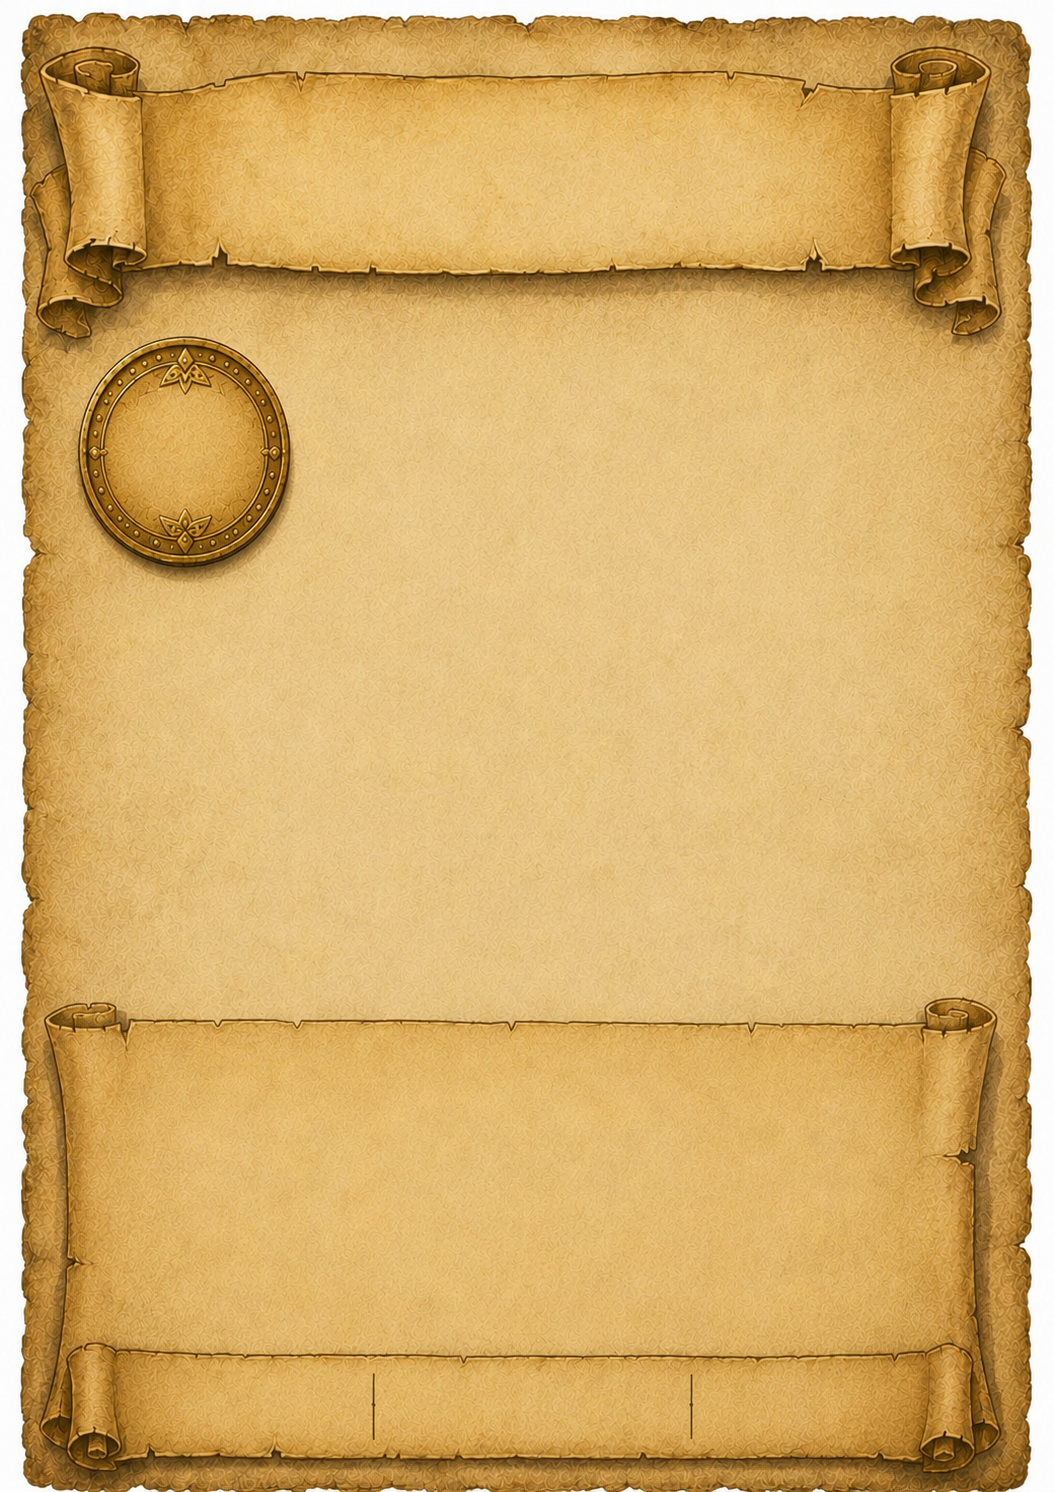
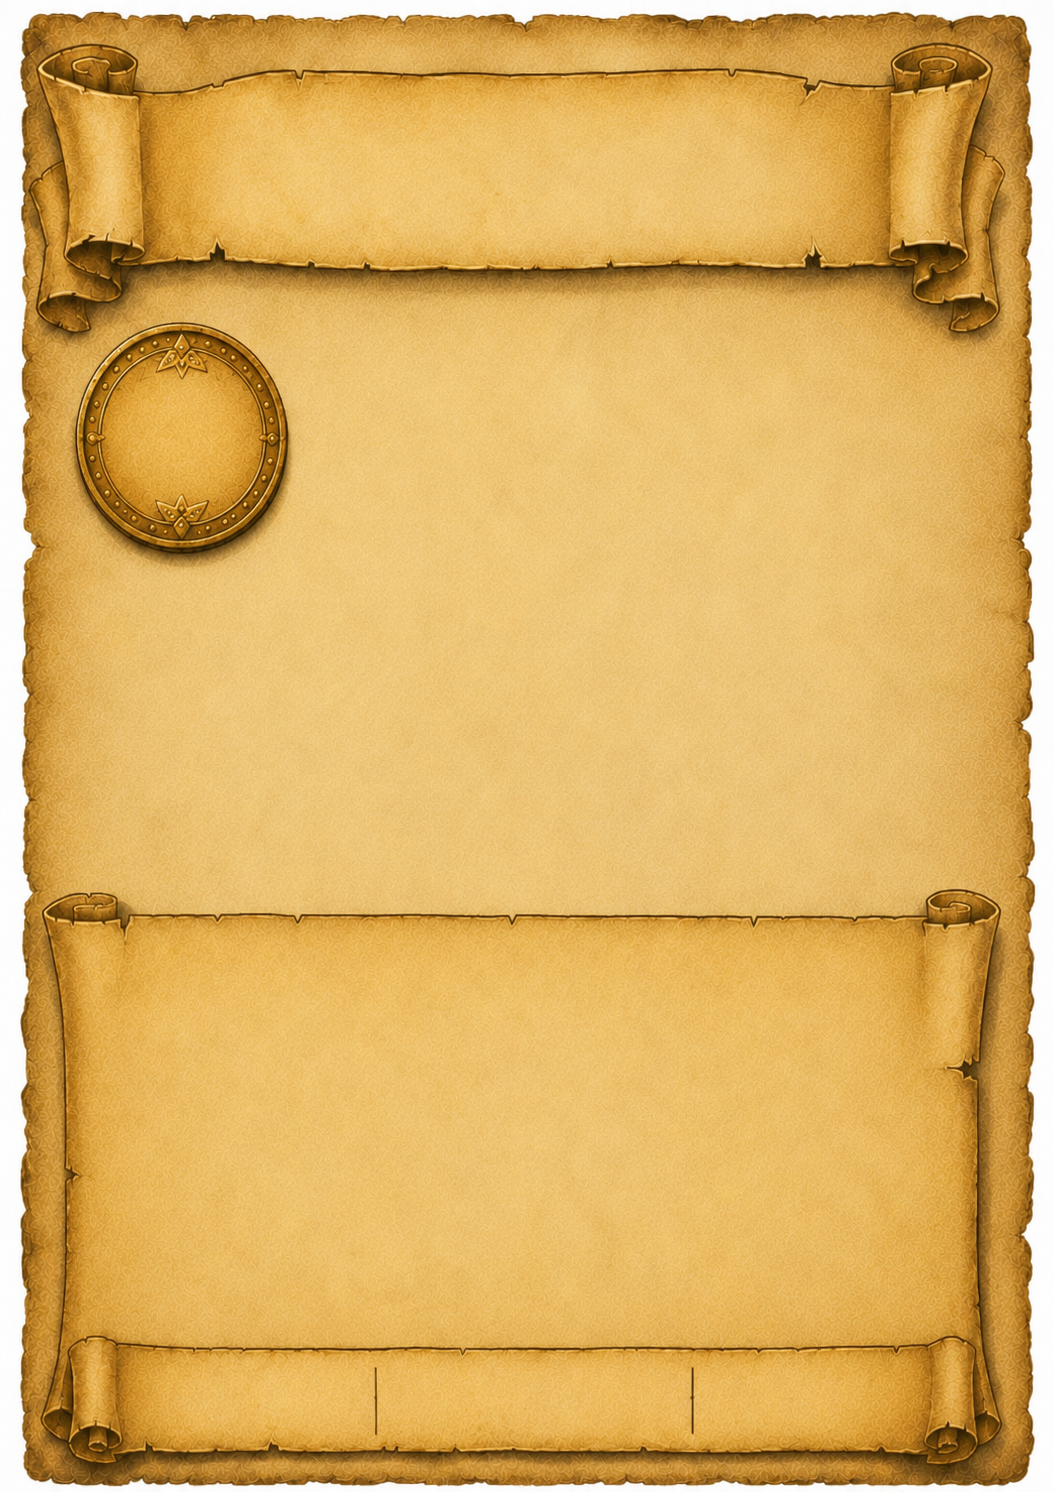
feat(frame): moldura v2 com pergaminho da descrição mais alto
A moldura nova do dono (moeda à esquerda) vira frame-left.png, e
frame-right.png passa a ser o espelho exato dela.

- Pergaminho da descrição: topo em 64,7 mm (era 72,1). A caixa de texto vai
  para 66,6–94,4 mm (era 74–95), com +32% de altura para as poções longas.
- Arte: 21–63,5 mm, ainda centralizada no espaço livre.
- Espelho exato, então todas as caixas espelham puro: sai o ajuste manual
  da moeda (mirrorPriceBoxMm), e o rodapé também espelha. O 3º
  compartimento do rodapé da moeda à direita fica com 16,5 mm (era 12,7).
- Rodapé 0,6 mm acima; divisores medidos de novo (26,4/48,6 mm à esquerda).

Changed region(s): [[0.0, 0.0, 1.0, 1.0], [0.8501, 0.37, 0.8805, 0.4008]]

diff --git a/src/config.ts b/src/config.ts
@@ -32,9 +32,10 @@ export const PATHS = {
 };
 
 // ---------------------------------------------------------------------------
-// Coin side: the frame comes in two mirrored variants (price coin top-right
-// vs top-left). Picking a side selects both the frame image AND mirrors
-// SLOTS.price horizontally — see FRAME_PATHS / getPriceSlot below.
+// Coin side: the frame comes in two variants (price coin top-right vs
+// top-left). frame-left.png is the painted original (v2, 22/11/2026: taller
+// description scroll); frame-right.png is its exact horizontal mirror, so
+// getSlotsForSide() mirrors every box with no manual nudge.
 // ---------------------------------------------------------------------------
 
 export type CoinSide = "left" | "right";
@@ -127,25 +128,29 @@ export const SLOTS = {
 
   /**
    * Item artwork window = the free space between the title scroll, the
-   * description scroll, the left rail and the coin column (right edge 1mm clear
-   * of the coin). object-fit: contain centers the object in that space.
+   * description scroll (its top edge is at 64.7mm), the left rail and the coin
+   * column (right edge 1mm clear of the coin). object-fit: contain centers the
+   * object in that space.
    */
-  art: { xMm: 6.5, yMm: 21, widthMm: 44.5, heightMm: 48 } as BoxMm,
+  art: { xMm: 6.5, yMm: 21, widthMm: 45.5, heightMm: 42.5 } as BoxMm,
 
-  /** Description band (bottom scroll). */
-  description: { xMm: 7, yMm: 74, widthMm: 60, heightMm: 21 } as BoxMm,
- 
+  /**
+   * Description band: the flat part of the tall bottom scroll (frame v2:
+   * scroll top edge 64.7mm, was 72.1mm — +7.4mm of text height).
+   */
+  description: { xMm: 7, yMm: 66.6, widthMm: 60, heightMm: 27.8 } as BoxMm,
+
   /** Price coin: hangs below the title scroll into the open area, not glued to the top edge. */
-  price: { xMm: 52, yMm: 22.5, widthMm: 17, heightMm: 17 } as BoxMm,
+  price: { xMm: 53, yMm: 23.5, widthMm: 17, heightMm: 17 } as BoxMm,
 
   /**
    * Potion spell-circle seal: hangs right below the price coin, centered on
-   * the same vertical axis (price box center = 60.5mm), in the side rail the
-   * art window already leaves free for the coin (art ends at x=51mm, so this
+   * the same vertical axis (price box center = 61.5mm), in the side rail the
+   * art window already leaves free for the coin (art ends at x=52mm, so this
    * never touches the art). The opposite rail is only ~11mm wide including
    * the torn border — a legible seal there would cut into the art window.
    */
-  circleSeal: { xMm: 55, yMm: 40.5, widthMm: 11, heightMm: 11 } as BoxMm,
+  circleSeal: { xMm: 56, yMm: 41.5, widthMm: 11, heightMm: 11 } as BoxMm,
 
   /**
    * Footer scroll below the description band: the flat band between the
@@ -153,7 +158,7 @@ export const SLOTS = {
    * three cells' horizontal spans come from FOOTER_CELLS_MM (per frame side),
    * because the dividers between them are painted in the frame art.
    */
-  footer: { xMm: 10.2, yMm: 94, widthMm: 52.4, heightMm: 9 } as BoxMm,
+  footer: { xMm: 10.8, yMm: 93.4, widthMm: 53.3, heightMm: 9 } as BoxMm,
 } as const;
 
 export interface BoxPx {
@@ -179,26 +184,14 @@ function mirrorBoxMm(box: BoxMm): BoxMm {
 }
 
 /**
- * Price gets the pure mirror plus a small manual nudge (-1mm x, +1mm y),
- * from fine-tuning the left-coin frame against its actual coin artwork —
- * the two frame images aren't pixel-perfect mirrors of each other, so the
- * plain formula was off by a hair. Re-measure with the percentage-grid
- * technique (see git history / scripts/grid-overlay.ts) if frame-left.png
- * ever changes.
- */
-function mirrorPriceBoxMm(box: BoxMm): BoxMm {
-  return { xMm: CARD_WIDTH_MM - box.xMm - box.widthMm - 1, yMm: box.yMm + 1, widthMm: box.widthMm, heightMm: box.heightMm };
-}
-
-/**
- * Resolves ALL of SLOTS for the given coin side. 'right' is the calibrated
- * original. 'left' mirrors every box horizontally — not just price. This
- * matters because SLOTS.art isn't centered (it's shifted toward the side
- * away from the coin, keeping a deliberate ~1mm clearance from it); mirroring
- * only the price and leaving art in place would collide the art box into
- * the coin on the left-coin frame. Mirroring symmetric boxes (title,
- * description) is a no-op. Exceptions: the circle seal follows the coin's
- * nudge, and the footer is not mirrored at all (see FOOTER_CELLS_MM).
+ * Resolves ALL of SLOTS for the given coin side. 'right' is SLOTS as written.
+ * 'left' mirrors every box horizontally — not just price — because
+ * frame-right.png is the exact mirror of frame-left.png. This matters because
+ * SLOTS.art isn't centered (it's shifted toward the side away from the coin,
+ * keeping a deliberate ~1mm clearance from it); mirroring only the price and
+ * leaving art in place would collide the art box into the coin on the
+ * left-coin frame. Mirroring symmetric boxes (title, description) is a no-op.
+ * The footer's painted dividers are mirrored too — see FOOTER_CELLS_MM.
  */
 export function getSlotsForSide(side: CoinSide): typeof SLOTS {
   if (side === "right") return SLOTS;
@@ -206,12 +199,9 @@ export function getSlotsForSide(side: CoinSide): typeof SLOTS {
     title: mirrorBoxMm(SLOTS.title),
     art: mirrorBoxMm(SLOTS.art),
     description: mirrorBoxMm(SLOTS.description),
-    price: mirrorPriceBoxMm(SLOTS.price),
-    // Anchored to the coin, so it takes the coin's mirror nudge too.
-    circleSeal: mirrorPriceBoxMm(SLOTS.circleSeal),
-    // NOT mirrored: both frames draw the footer scroll at the same place
-    // (rolls at ~10–62.5mm on each); only its painted dividers differ — see FOOTER_CELLS_MM.
-    footer: SLOTS.footer,
+    price: mirrorBoxMm(SLOTS.price),
+    circleSeal: mirrorBoxMm(SLOTS.circleSeal),
+    footer: mirrorBoxMm(SLOTS.footer),
   };
 }
 
@@ -220,20 +210,20 @@ export function getSlotsForSide(side: CoinSide): typeof SLOTS {
  * into three compartments; each footer value is centered in its compartment.
  * Measured on the frame PNGs scaled to the 874×1240 canvas (darkest narrow
  * columns across the scroll's mid-band; outer edges = where the end rolls'
- * shadow starts). The frames are not mirror images here — the dividers sit at
- * 28.4/49.9mm on frame-right but 26.2/48.5mm on frame-left — so each side
- * has its own spans. Re-measure if either frame PNG changes.
+ * shadow starts). The dividers are not centered (26.4/48.6mm on frame-left),
+ * so frame-right, its mirror, has them at 25.4/47.6mm and the cells in
+ * reverse order. Re-measure if frame-left.png changes.
  */
 export const FOOTER_CELLS_MM: Record<CoinSide, readonly { xMm: number; widthMm: number }[]> = {
   right: [
-    { xMm: 10.2, widthMm: 18.2 },
-    { xMm: 28.4, widthMm: 21.5 },
-    { xMm: 49.9, widthMm: 12.7 },
+    { xMm: 10.8, widthMm: 14.6 },
+    { xMm: 25.4, widthMm: 22.2 },
+    { xMm: 47.6, widthMm: 16.5 },
   ],
   left: [
-    { xMm: 9.9, widthMm: 16.3 },
-    { xMm: 26.2, widthMm: 22.3 },
-    { xMm: 48.5, widthMm: 14.0 },
+    { xMm: 9.9, widthMm: 16.5 },
+    { xMm: 26.4, widthMm: 22.2 },
+    { xMm: 48.6, widthMm: 14.6 },
   ],
 };
 

diff --git a/CLAUDE.md b/CLAUDE.md
@@ -32,13 +32,13 @@ pnpm art -- sono --variacoes=3          # 3 candidates + card previews in output
 
 **Render pipeline**: `card.html.ts` builds a self-contained HTML/CSS string for one card → `render.ts` loads it in a Playwright/Chromium page (via a temp file + `file://`, not `page.setContent`, because `file://` `<img>` sources are blocked from an `about:blank` origin) → binary-searches font-size (and, for the description, line-height) per text slot until it fits its box, using `measureFit`'s DOM measurements → screenshots the page to `output/cards/{id}.png`. If text can't fit even at the configured minimum size, `TextOverflowError` aborts the whole build with the card id/slot/measured-vs-available size — text is never silently clipped.
 
-**Coin side (left/right) mirroring**: the approved frame art comes in two files, `assets/frame/frame-right.png` and `frame-left.png` (horizontal mirror images of each other — the price coin sits in the opposite corner). `config.ts`'s `getSlotsForSide(side)` returns a horizontally-mirrored copy of **every** slot box for `"left"` (not just `price`) — `SLOTS.art` is deliberately off-center (shifted away from the coin, ~1mm clearance), so mirroring only the price would collide the art box into the coin on the left variant. `price` additionally gets a small hand-tuned nudge beyond the pure mirror (see `mirrorPriceBoxMm`) because the two frame PNGs aren't pixel-perfect mirrors of each other.
+**Coin side (left/right) mirroring**: the approved frame art comes in two files, `assets/frame/frame-right.png` and `frame-left.png` (horizontal mirror images of each other — the price coin sits in the opposite corner). `config.ts`'s `getSlotsForSide(side)` returns a horizontally-mirrored copy of **every** slot box for `"left"` (not just `price`) — `SLOTS.art` is deliberately off-center (shifted away from the coin, ~1mm clearance), so mirroring only the price would collide the art box into the coin on the left variant. Since frame v2 (22/11/2026) `frame-left.png` is the painted original and `frame-right.png` is generated as its exact horizontal mirror, so every box (price, seal and footer included) is a pure mirror — no hand-tuned nudge. To replace the frame, swap `frame-left.png`, regenerate the mirror, and re-measure `SLOTS` + `FOOTER_CELLS_MM` against a render.
 
 **Card size / imposition**: cards are A7 (74×105mm, 874×1240px @ 300dpi) — this was deliberately kept as-is after evaluating a Magic-card-size (2.5×3.5in) alternative; A7 rotated 90° already tiles A4 at 8-up (2 cols × 4 rows) with ~0.03% waste, which is the mathematical maximum for that card size, so there was nothing to gain by resizing. `impose.ts` reads `data/cards-to-reapeat.json` (`{"cards-to-repeat":[{"id":..., "times-to-repeat": N}]}`) and expands each listed id to `N` **total** copies (not additional) before chunking into 8-per-sheet PDFs; unknown ids in that file log a warning and are ignored rather than failing the build.
 
 **Catalog & validation**: the catalog is `data/cards.json` + every `data/pocoes-*.json` (`src/catalog.ts` `loadCatalog`, used by build and test) — the game master's potion files stay untouched as the literal source instead of being merged. `src/validation.ts` validates the whole catalog: structural problems throw (duplicate id across files, wrong attribute count, potion without `subtitulo` Poção/Óleo/Granada, `circulo` outside 1–5, non-integer `pm`), while a potion price ≠ T$30 × pm² and a `rotulo` out of footer order only warn. Cards whose `imagem` file doesn't exist render with an empty art window (plain parchment) and are listed in one aggregated warning.
 
-**Footer**: each card has exactly 3 attribute cells (`Card.atributos`), resolved via `resolveFooterAttr` — a card's own `icone`/`rotulo` win, otherwise falls back to `TYPE_FOOTER_DEFAULTS[tipo][index]` in config.ts. Labels are never rendered (icon + value only, per the reference art's style); `rotulo` is kept only as self-documentation of what each position means. The two footer dividers are **painted into the frame art**, so each cell is placed on its painted compartment (`FOOTER_CELLS_MM`, measured per side — the footer is NOT mirrored between the two frames) rather than on equal thirds. Autofit for the footer value uses `data-max-width-px` (an explicit ceiling passed to `measureFit`, see `render.ts`) instead of a wrapping fixed-width box, so the icon+value pair can shrink-wrap and center as a tight unit within its cell. After fitting, all three values are set to the smallest fitted size (uniform footer). A value containing a space may wrap into 2 centered lines when that gives a clearly larger font (`fitFooterValue`, tuned by `FOOTER_WRAP_*` in config.ts).
+**Footer**: each card has exactly 3 attribute cells (`Card.atributos`), resolved via `resolveFooterAttr` — a card's own `icone`/`rotulo` win, otherwise falls back to `TYPE_FOOTER_DEFAULTS[tipo][index]` in config.ts. Labels are never rendered (icon + value only, per the reference art's style); `rotulo` is kept only as self-documentation of what each position means. The two footer dividers are **painted into the frame art**, so each cell is placed on its painted compartment (`FOOTER_CELLS_MM`, per side: the dividers are off-center, so the mirrored frame has its cells in reverse order) rather than on equal thirds. Autofit for the footer value uses `data-max-width-px` (an explicit ceiling passed to `measureFit`, see `render.ts`) instead of a wrapping fixed-width box, so the icon+value pair can shrink-wrap and center as a tight unit within its cell. After fitting, all three values are set to the smallest fitted size (uniform footer). A value containing a space may wrap into 2 centered lines when that gives a clearly larger font (`fitFooterValue`, tuned by `FOOTER_WRAP_*` in config.ts).
 
 **Potions** (`tipo: "pocao"`, layout approved 22/11/2026): subtitle = potion kind, footer = [Duração, Alvo/Área, Resistência], circle seal (`circulo`, under the coin), price on the coin. Card texts: the game master writes some potions (kept literal); Claude writes the rest in her style, cross-checked against the book's full spell effect — never from a `.claude/skills/t20` entry truncated with "(...)" (that would invent rules). When the table's material diverges from the Tormenta20 book, the book wins; a double value like "1d10/1d12" shows only the larger one. See `memory.md`.
 

diff --git a/memory.md b/memory.md
@@ -6,6 +6,7 @@ Histórico de decisões e contexto que não é óbvio só de ler o código. Orde
 
 - O frame final (`assets/frame/frame-right.png` / `frame-left.png`) foi gerado com IA (Canva) a partir de um prompt detalhado com proporções percentuais medidas na carta de referência (`assets/inspiration/exemplo-carta-pronta.jpg`, a carta "Adaga" do Tormenta20).
 - Existem **dois frames**, espelhados horizontalmente: `frame-right.png` (moeda de preço no canto superior direito, o layout "original") e `frame-left.png` (moeda no canto superior esquerdo). A escolha de qual usar é feita em runtime via `pnpm build -- left|right`.
+- **Frame v2 (22/11/2026, pedido do dono):** o dono gerou uma versão com o pergaminho da descrição 7,4 mm mais alto (topo em 64,7 mm em vez de 72,1 mm), para dar letra legível às poções de texto longo. Título, moeda e divisores do rodapé ficaram no mesmo lugar (rodapé 0,6 mm acima). Ela virou `frame-left.png`, e `frame-right.png` passou a ser o espelho exato dela. Assim sumiu o ajuste manual da moeda, e o 3º compartimento do rodapé da moeda à direita ficou mais largo (16,5 mm em vez de 12,7 mm). Caixas novas: descrição 66,6–94,4 mm (era 74–95), arte 21–63,5 mm (era 21–69).
 - A caixa de arte (`SLOTS.art`) **não é centralizada** no card — ela fica deslocada pra longe da moeda, mantendo ~1mm de folga. Isso importa pro espelhamento: espelhar só o preço e deixar a arte no lugar colide a arte com a moeda no frame esquerdo. `getSlotsForSide()` espelha todos os slots por causa disso.
 - (22/11/2026, pedido do dono) A caixa da arte é o **espaço livre** da carta: 6,5–51 × 21–69 mm (entre o título, o pergaminho da descrição, a borda e a coluna da moeda). O objeto fica centralizado nesse espaço via `object-fit: contain`. Veio da proposta da direção de arte, que também trouxe o título restrito à parte lisa do pergaminho e a descrição sem itálico. O selo de cera da mesma proposta ficou de fora: o círculo segue como a mestre aprovou.
 - `assets/frame/frame.png` (sem sufixo) e `final-template*.png` são cópias/originais legados, mantidos por segurança, mas não são lidos pelo pipeline de renderização (que usa `FRAME_PATHS.left`/`.right`).

diff --git a/README.md b/README.md
@@ -108,7 +108,9 @@ GEMINI_API_KEY=<sua chave>
 
 ## Lado da moeda (frame espelhado)
 
-O frame aprovado existe em duas versões, espelhadas horizontalmente:
+O frame aprovado existe em duas versões, espelhadas horizontalmente. Desde a v2
+(22/11/2026, pergaminho da descrição mais alto), `frame-left.png` é a arte
+pintada e `frame-right.png` é o espelho exato dela:
 
 - `assets/frame/frame-right.png` — moeda de preço no canto superior direito.
 - `assets/frame/frame-left.png` — moeda no canto superior esquerdo.
@@ -121,8 +123,9 @@ escolhem qual frame carregar através desse mesmo mecanismo.
 
 ## Como trocar o frame
 
-1. Substitua `assets/frame/frame-right.png` (e opcionalmente `frame-left.png`,
-   sua versão espelhada) pela arte aprovada do pergaminho.
+1. Substitua `assets/frame/frame-left.png` pela arte aprovada do pergaminho e
+   gere `frame-right.png` como o espelho horizontal exato dela. Depois meça de
+   novo `SLOTS` e `FOOTER_CELLS_MM` (`src/config.ts`) em cima de um render.
    - O frame é **totalmente opaco** — a arte do item é desenhada **por cima**
      dele (com uma sombra própria), não atrás de uma janela recortada. As
      faixas de título/descrição/rodapé já vêm no próprio PNG; o texto é
